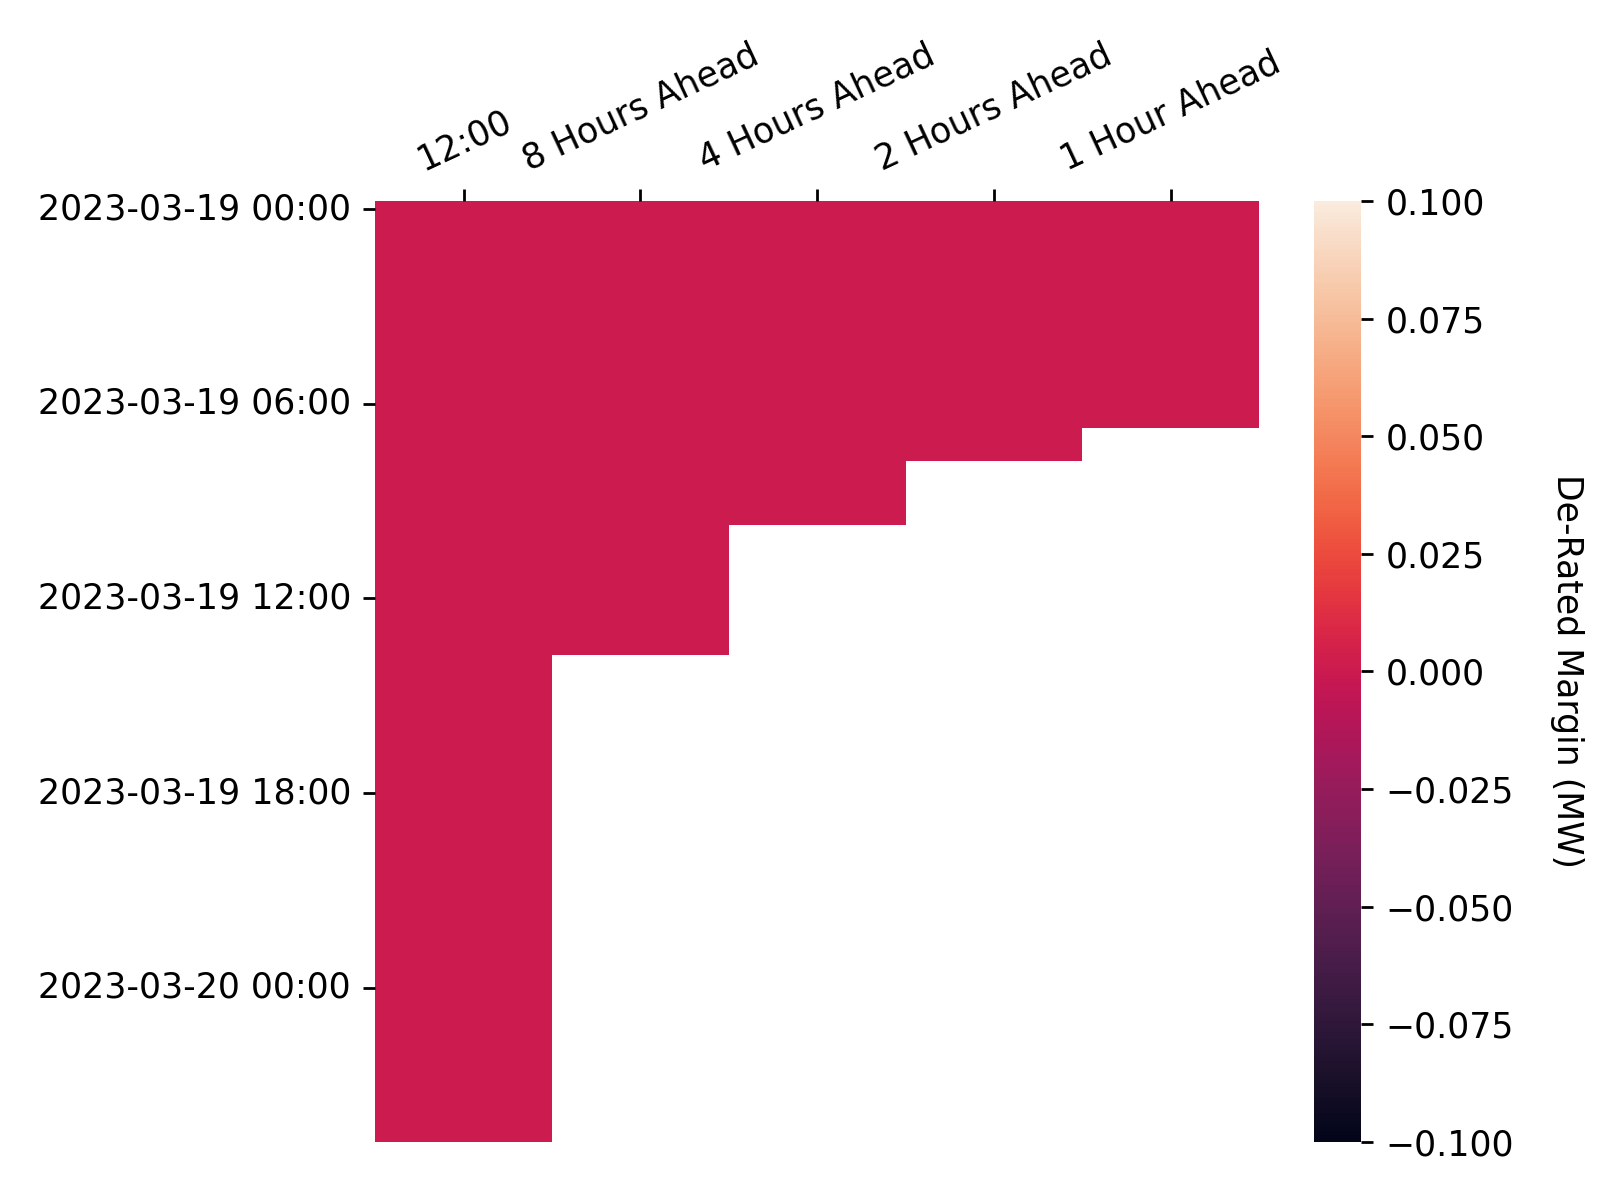
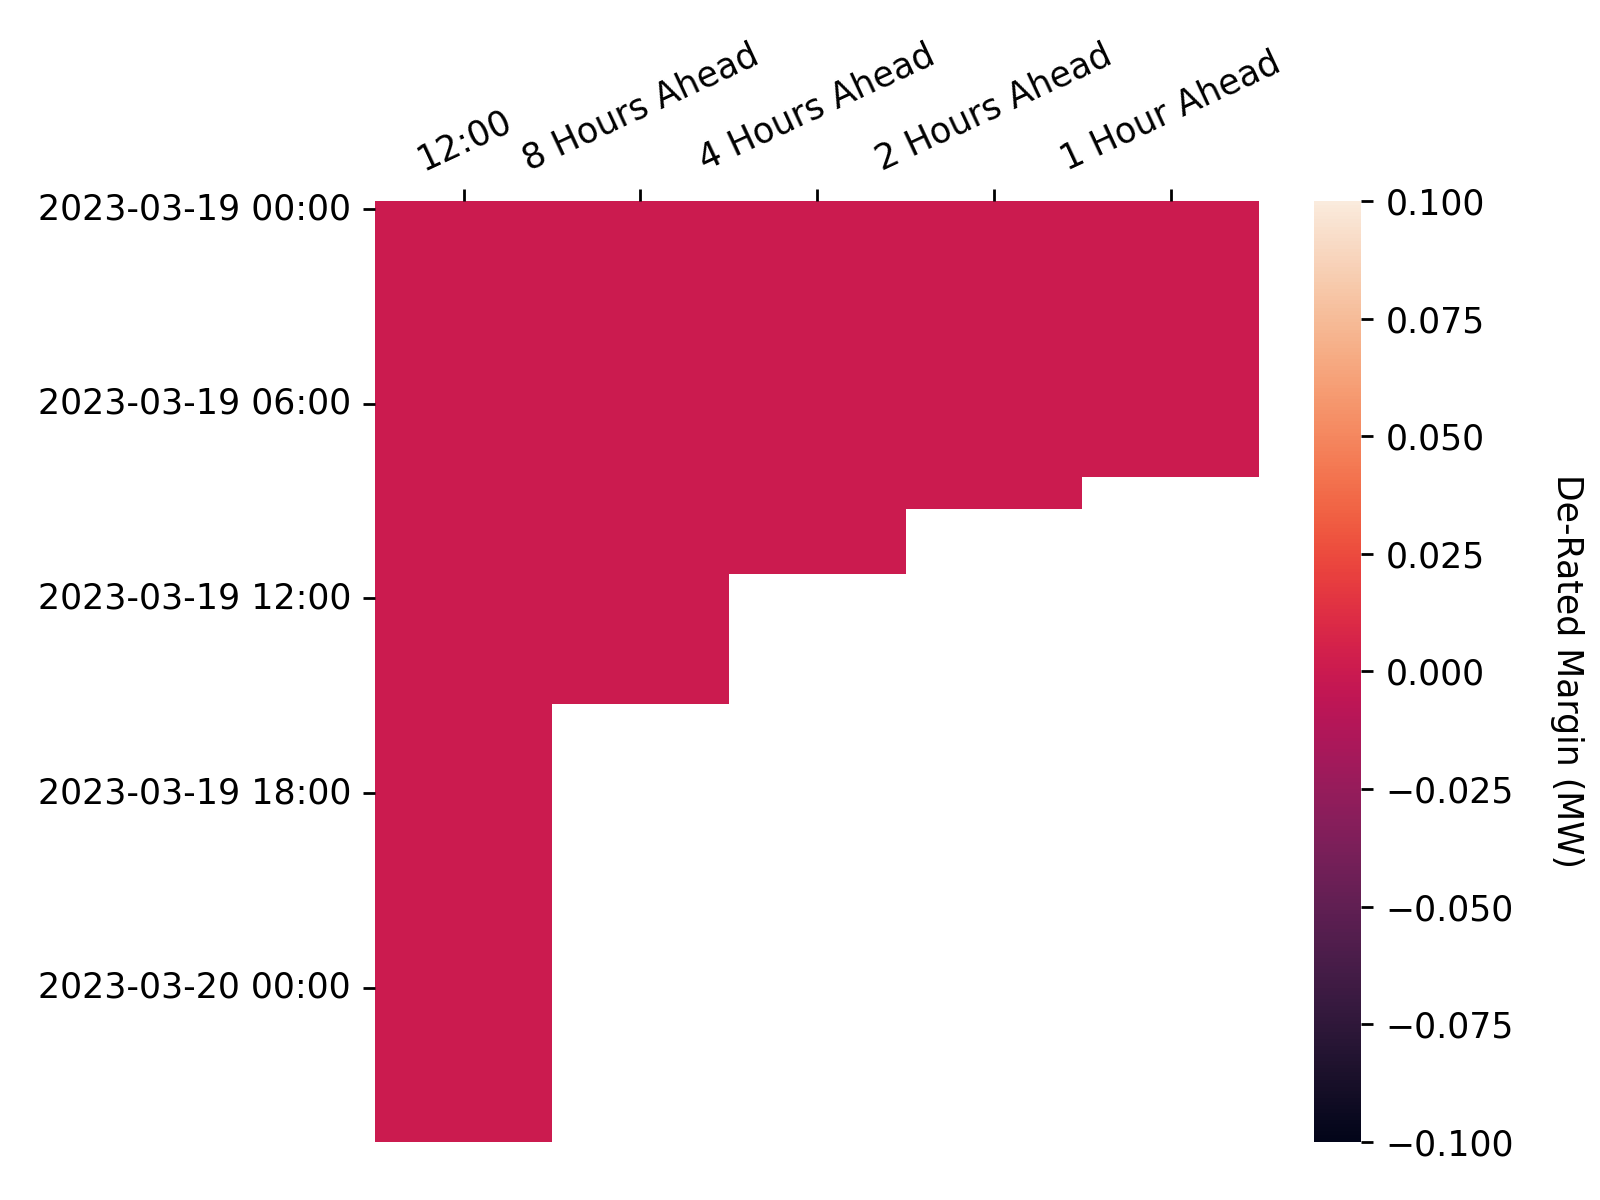
Apply automatic changes

Changed region(s): [[0.5625, 0.3392, 0.8125, 0.4317], [0.4375, 0.4317, 0.5625, 0.4933], [0.3438, 0.5242, 0.4688, 0.5858]]

diff --git a/docs/js/map.js b/docs/js/map.js
@@ -144,7 +144,7 @@ document.addEventListener("DOMContentLoaded", function() {
                 follow: 1
             });
             mymap.addControl(sliderControl);
-            sliderControl.startSlider(334);
+            sliderControl.startSlider(335);
         });
     });
 });

diff --git a/docs/visualisations.md b/docs/visualisations.md
@@ -60,7 +60,7 @@ In each settlement period the system operator publishes the de-rated margin fore
 * At 1200 hours on each calendar day for all Settlement Periods for which Gate Closure has not yet passed and which occur within the current Operational Day or the following Operational Day; and
 * At eight, four, two and one hour(s) prior to the beginning of the Settlement Period to which the De-Rated Margin Forecast relates.
 
-These figures will be updated on an hourly basis, the last update was at: 2023-03-19 07:35
+These figures will be updated on an hourly basis, the last update was at: 2023-03-19 08:15
 
 <br>
 
@@ -83,7 +83,7 @@ The following heatmap shows how the more recent de-rated margin forecasts deviat
 
 ### Power Output Map
 
-Last Updated: 2023-03-19 07:35
+Last Updated: 2023-03-19 08:15
 
 This map shows the power output of individual plants connected to the transmission grid as stated in their most recent Physical Notifications. This data can be retrieved through the *PHYBMDATA* BMRS stream, the out-turn data can be viewed one week later through the *B1610* stream. The scrollbar at the top of the map can be used to view how the generation sources have changed their output over the last week, the layer control can be used to toggle on/off the transmission network, and the plants themselves can be clicked to reveal additional information. The plant location data used in this map has been taking from a sister project, [the Power Station Dictionary](https://osuked.github.io/Power-Station-Dictionary/), which aims to link between data about individual power plants.
 
